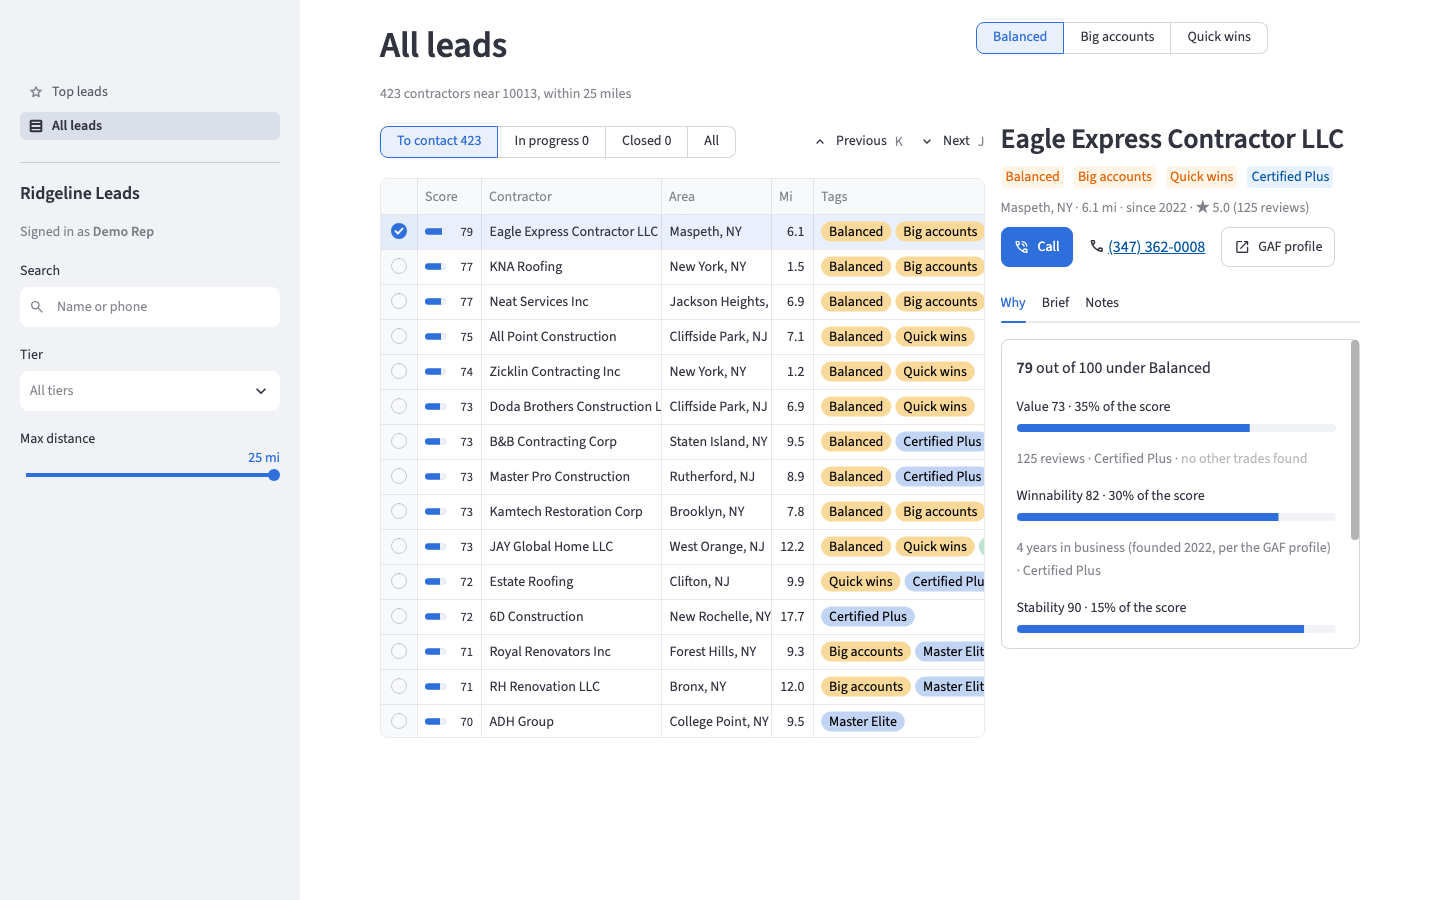
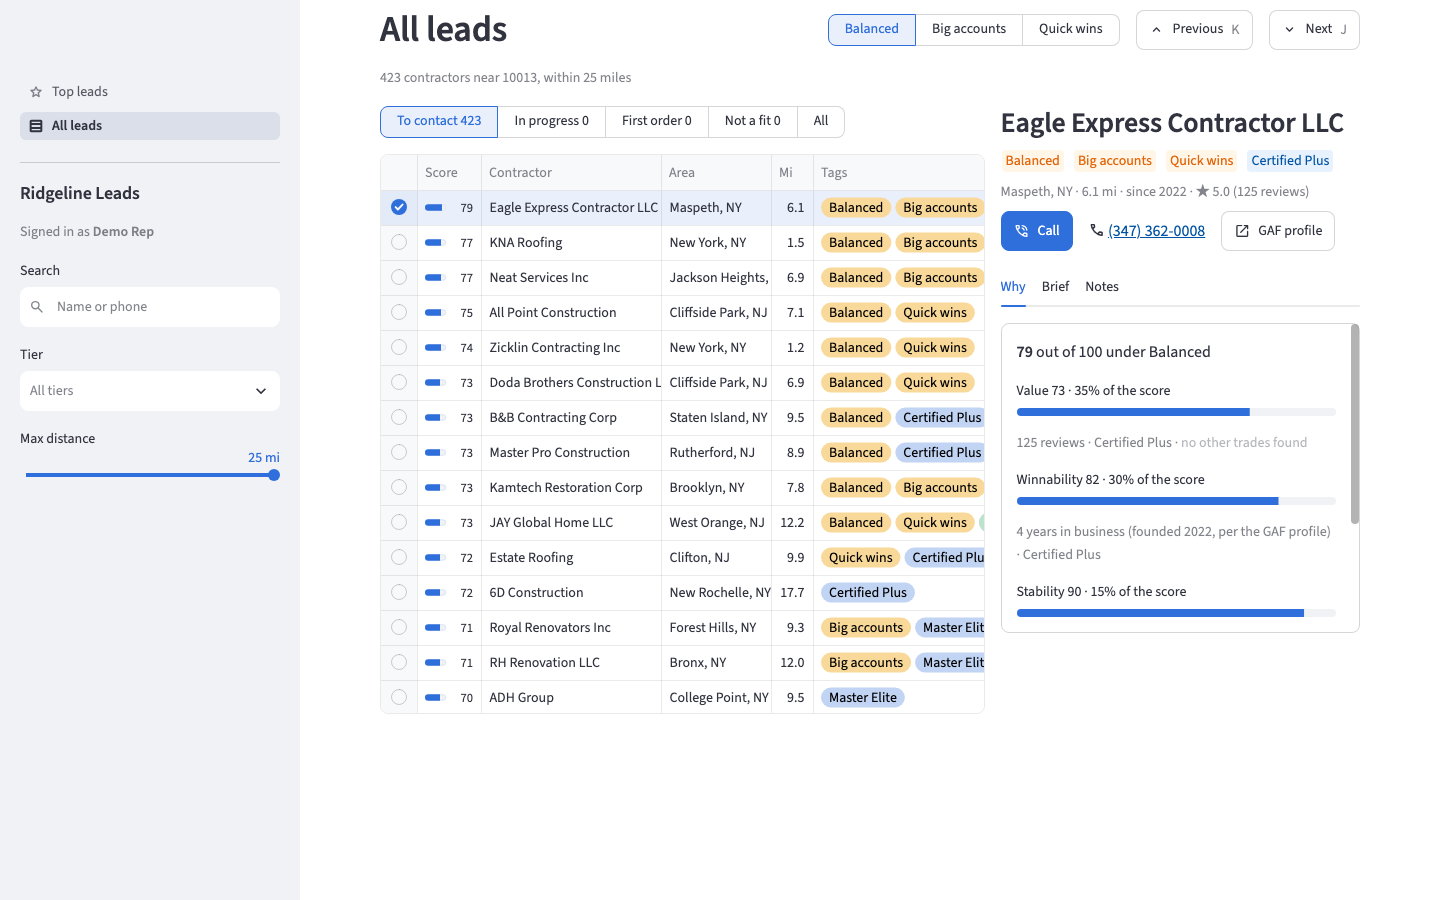
Split the Closed filter into First order and Not a fit
A first order is a win and "Not a fit" a dead end, so the All leads status filter
now gives each its own button and count. Five buttons no longer fit beside
Previous and Next, so those moved into the title row, the same corner as on Top
leads. Stored notes are unchanged: groups are worked out when they're read.

diff --git a/app/ui/main.py b/app/ui/main.py
@@ -325,15 +325,16 @@ def top_leads_page() -> None:
 
 
 def all_leads_page() -> None:
-    """The All leads page: the preset picker, sidebar filters, the status filter, the lead table, and the selected lead."""
+    """The All leads page: the preset picker and Previous/Next, sidebar filters, the status filter, the lead table, and the selected lead."""
     territory = data.load_territory()
     radius = int(territory["radius_miles"])
     scoring = data.load_scoring_config()
     rep = data.current_rep()
 
-    title_column, preset_column = st.columns([3, 2], vertical_alignment="center")
-    title_column.header("All leads", anchor=False)
-    with preset_column:
+    # The title row: the preset picker, then Previous and Next, in the same corner as on Top leads.
+    with st.container(horizontal=True, vertical_alignment="center"):
+        st.header("All leads", anchor=False, width="content")
+        st.space("stretch")
         # Starts on the rep's saved preset. required: a second click can't unselect it.
         # bind: ?preset=Quick+wins in the URL deep-links to a preset.
         preset = st.segmented_control(
@@ -347,6 +348,8 @@ def all_leads_page() -> None:
             args=(rep.id,),
             label_visibility="collapsed",
         )
+        st.button("Previous", icon=":material/keyboard_arrow_up:", shortcut="K", on_click=step_lead, args=("lead_id", -1))
+        st.button("Next", icon=":material/keyboard_arrow_down:", shortcut="J", on_click=step_lead, args=("lead_id", 1))
 
     # live: the table filters as the rep types. type="search" adds a clear button.
     search = st.sidebar.text_input("Search", placeholder="Name or phone", type="search", live=True)
@@ -362,19 +365,15 @@ def all_leads_page() -> None:
     with table_column:
         statuses = data.current_statuses(rep.id, [lead.gaf_id for lead in leads])
         counts = {group: sum(data.status_group(statuses[lead.gaf_id]) == group for lead in leads) for group in data.STATUS_GROUPS}
-        with st.container(horizontal=True, vertical_alignment="center"):
-            group = st.segmented_control(
-                "Status",
-                [*data.STATUS_GROUPS, "All"],
-                default="To contact",
-                required=True,
-                key="status_group",
-                format_func=lambda option: f"{option} {counts[option]}" if option in counts else option,
-                label_visibility="collapsed",
-            )
-            st.space("stretch")
-            st.button("Previous", icon=":material/keyboard_arrow_up:", shortcut="K", type="tertiary", on_click=step_lead, args=("lead_id", -1))
-            st.button("Next", icon=":material/keyboard_arrow_down:", shortcut="J", type="tertiary", on_click=step_lead, args=("lead_id", 1))
+        group = st.segmented_control(
+            "Status",
+            [*data.STATUS_GROUPS, "All"],
+            default="To contact",
+            required=True,
+            key="status_group",
+            format_func=lambda option: f"{option} {counts[option]}" if option in counts else option,
+            label_visibility="collapsed",
+        )
         leads = [lead for lead in leads if group == "All" or data.status_group(statuses[lead.gaf_id]) == group]
         if not leads:
             st.info("No leads here. Try another status, search, or wider filters.")

diff --git a/tests/test_ui.py b/tests/test_ui.py
@@ -9,7 +9,7 @@ from streamlit.testing.v1 import AppTest
 from streamlit.testing.v1.element_tree import Button
 
 from app.db.models import Contractor, ContractorBrief, Fact, Rep, Run, Score
-from app.services.notes import lead_notes
+from app.services.notes import add_note, lead_notes
 from app.settings import load_territory
 
 ENTRY_POINT = Path(__file__).parent.parent / "streamlit_app.py"  # what `streamlit run` runs
@@ -251,6 +251,19 @@ def test_the_preset_is_saved_for_the_rep_and_restored_next_visit(app: AppTest, s
     assert session.get(Rep, 1).preset == "Big accounts"
     next_visit = open_all_leads(AppTest.from_file(str(ENTRY_POINT), default_timeout=30))
     assert next_visit.segmented_control(key="preset").value == "Big accounts"
+
+
+def test_first_orders_and_leads_not_a_fit_each_have_their_own_filter(app: AppTest, session: Session) -> None:
+    add_note(session, 1, "1", "First order", "Ordered shingles for a Park Slope job.")
+    add_note(session, 1, "3", "Not a fit", "Commercial work only.")
+    session.commit()
+    open_all_leads(app)
+
+    app.segmented_control(key="status_group").set_value("First order").run()
+    assert list(app.dataframe[0].value["Contractor"]) == ["Alpha Roofing"]
+
+    app.segmented_control(key="status_group").set_value("Not a fit").run()
+    assert list(app.dataframe[0].value["Contractor"]) == ["Gamma Roofing"]
 
 
 def test_the_header_links_the_website_only_when_there_is_one(app: AppTest) -> None:

diff --git a/app/services/notes.py b/app/services/notes.py
@@ -15,8 +15,14 @@ from app.db.models import LeadNote
 
 # The statuses, in ladder order. "Considering us": asked for pricing or a quote.
 STATUSES = ["New", "Contacted", "Considering us", "First order", "Not a fit"]
-# The groups the lead list filters by, and the statuses in each.
-STATUS_GROUPS = {"To contact": ["New"], "In progress": ["Contacted", "Considering us"], "Closed": ["First order", "Not a fit"]}
+# The groups the lead list filters by, and the statuses in each. A first order and "Not a
+# fit" get a group each: one is a win and the other a dead end, so a rep looks for them apart.
+STATUS_GROUPS = {
+    "To contact": ["New"],
+    "In progress": ["Contacted", "Considering us"],
+    "First order": ["First order"],
+    "Not a fit": ["Not a fit"],
+}
 
 
 class Note(BaseModel):

diff --git a/tests/test_notes.py b/tests/test_notes.py
@@ -57,8 +57,8 @@ def test_each_status_belongs_to_one_group() -> None:
         "To contact",
         "In progress",
         "In progress",
-        "Closed",
-        "Closed",
+        "First order",
+        "Not a fit",
     ]
 
 

diff --git a/DESIGN.md b/DESIGN.md
@@ -124,7 +124,7 @@ The principle is that a rep should know the next step within seconds of opening 
 
 ## 5. How I built it
 
-I built the system in nine slices with Claude Code, checking each against its brief and the tests before starting the next. The 185 tests run offline against saved real pages, so a change to a parser or a rule is checked without touching the network. Each brief placed the work in the whole system: the files it touched, the rules every slice keeps, and the checks that prove it's done. Those rules and a map of the code are committed as AGENTS.md, so another developer, or their own agent, can pick up the codebase quickly. The README's table shows what can be customized, where, and what to rerun. I kept a decision log throughout, and this document condenses it.
+I built the system in nine slices with Claude Code, checking each against its brief and the tests before starting the next. The 186 tests run offline against saved real pages, so a change to a parser or a rule is checked without touching the network. Each brief placed the work in the whole system: the files it touched, the rules every slice keeps, and the checks that prove it's done. Those rules and a map of the code are committed as AGENTS.md, so another developer, or their own agent, can pick up the codebase quickly. The README's table shows what can be customized, where, and what to rerun. I kept a decision log throughout, and this document condenses it.
 
 ## 6. What I'd do with another 8 hours
 
